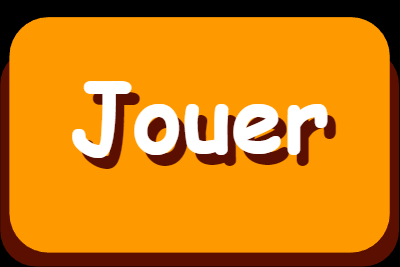
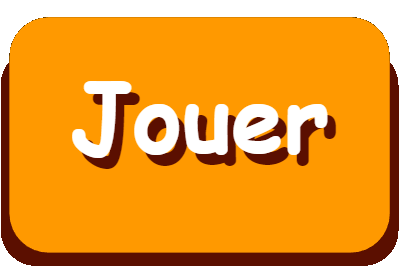
bouton et font

Changed region(s): [[0.0, 0.0, 1.0, 1.0]]

diff --git a/Classes/MenuScene.cpp b/Classes/MenuScene.cpp
@@ -15,17 +15,18 @@ bool MenuScene::init() {
     auto visibleSize = Director::getInstance()->getVisibleSize();
     Vec2 origin = Director::getInstance()->getVisibleOrigin();
 
+    ////// Image de fond //////
     auto background = Sprite::create("res/background.png");
     background->setPosition(Vec2(visibleSize.width/2 + origin.x , visibleSize.height/2 + origin.y));
+    this->addChild(background);
 
-
+    ////// Images des boutons //////
     startMenu = MenuItemImage::create("res/jouer.png", "res/jouer-select.png", CC_CALLBACK_1(MenuScene::changeScene, this));
     exitMenu = MenuItemImage::create("res/quitter.png", "res/quitter-select.png", CC_CALLBACK_1(MenuScene::exitGame, this));
-
     auto menu = Menu::create(startMenu, exitMenu, nullptr);
     menu->setPosition(Point::ZERO);
-    startMenu->setPosition(visibleSize.width / 3 + origin.x, visibleSize.height / 3 + origin.y);
-    exitMenu->setPosition((visibleSize.width / 3 + origin.x) * 2, visibleSize.height / 3 + origin.y); //-exitMenu->getContentSize().height - 20);
+    startMenu->setPosition((visibleSize.width / 6 + origin.x) * 3.5, visibleSize.height / 5 + origin.y);
+    exitMenu->setPosition((visibleSize.width / 6 + origin.x) * 5, visibleSize.height / 5 + origin.y); //-exitMenu->getContentSize().height - 20);
     this->addChild(menu);
 
     return true;
